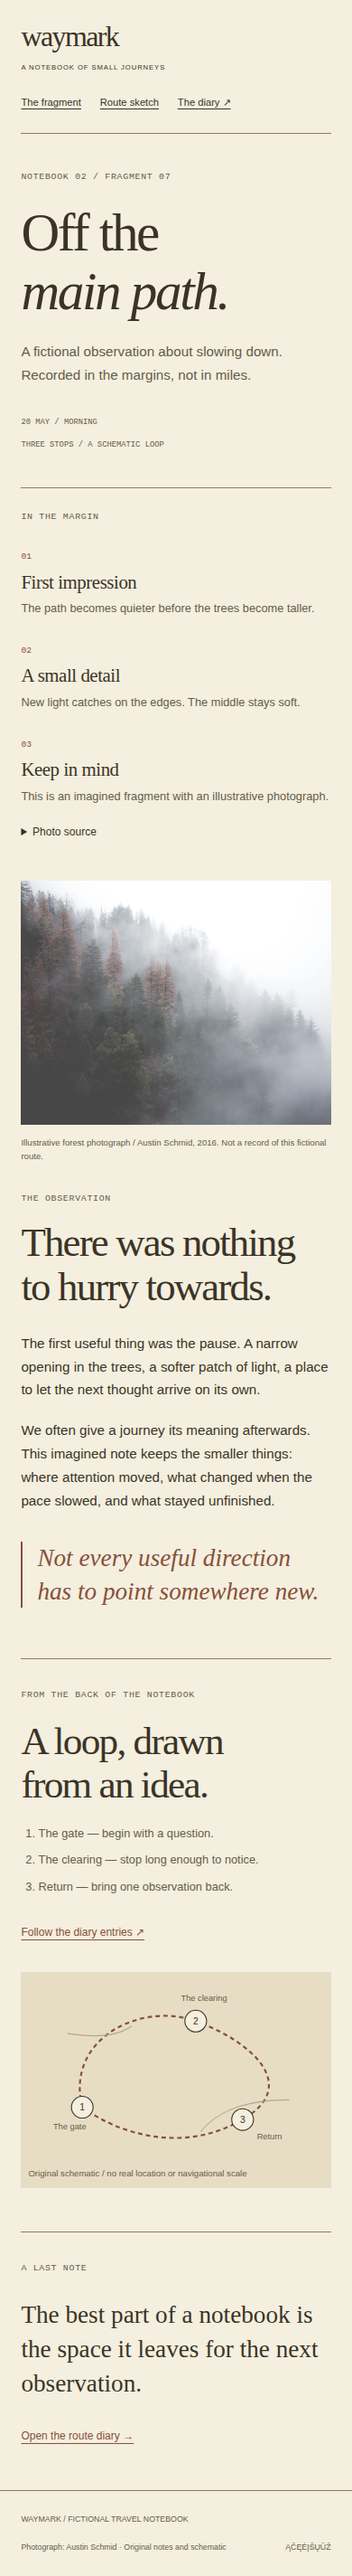
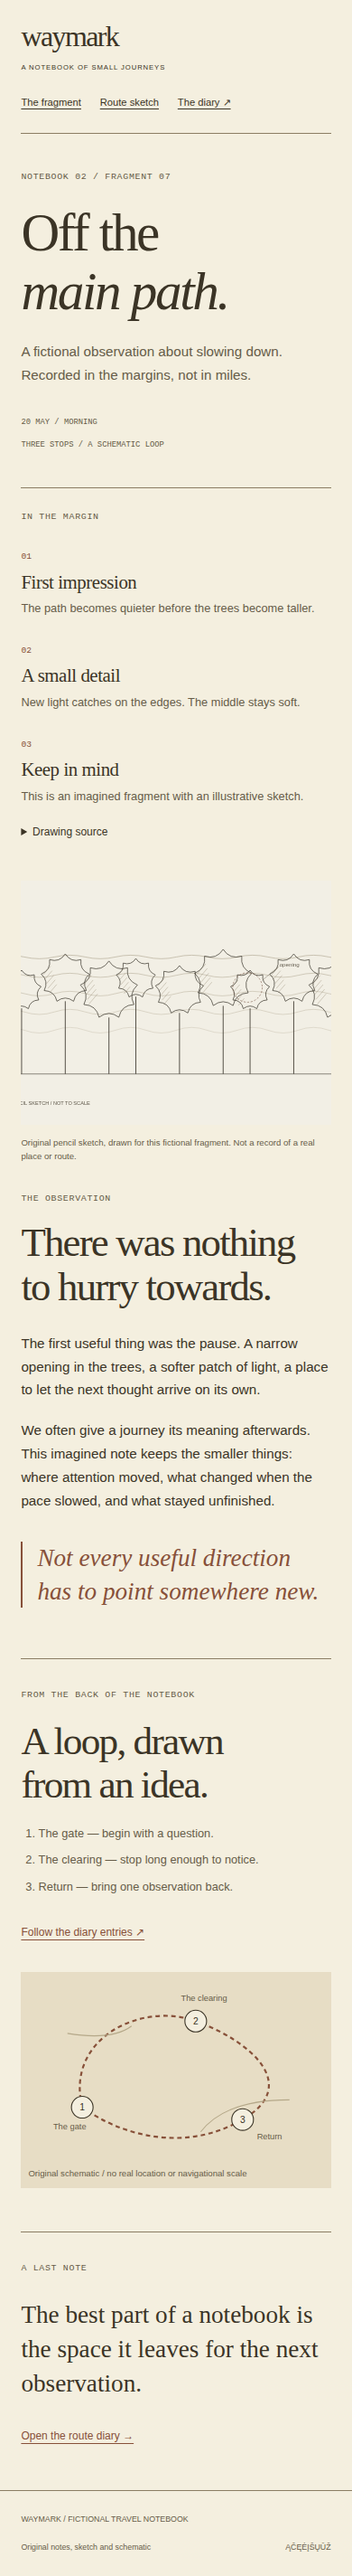
[S51] Pertvarka: Field Notes (#98)
* feat(field-notes): replace the forest photograph with an original sketch

- Remove the stock forest photo that duplicated the Cinematic Photo frame.
- Add an original pencil-style SVG sketch of tree crowns, mist and a marked opening.
- Update captions, rights note, asset registry, style.md and layouts.json to match.

Claude-Session: https://claude.ai/code/session_01UNVqEgRscSKB9PdVUupPsp

* chore: regenerate canonical previews for field-notes

* docs: add S51 evidence for Field Notes redesign

Records canonical previews run 39832260527, the four-PNG rubric review (12/12) and the limits of this review.

Claude-Session: https://claude.ai/code/session_01UNVqEgRscSKB9PdVUupPsp

---------

Changed region(s): [[0.0615, 0.3124, 0.9538, 0.4686]]

diff --git a/styles/field-notes/reference/index.html b/styles/field-notes/reference/index.html
@@ -1,2 +1,2 @@
 <!doctype html>
-<html lang="en"><head><meta charset="utf-8"><meta name="viewport" content="width=device-width,initial-scale=1"><meta name="description" content="Original fictional demonstration for Web Style Atlas."><title>Waymark — Field Notes</title><link rel="stylesheet" href="tokens.css"><link rel="stylesheet" href="style.css"></head><body><a class="skip" href="#main">Skip to content</a><header class="mast"><a class="brand" href="index.html">waymark<span>A NOTEBOOK OF SMALL JOURNEYS</span></a><nav aria-label="Notebook"><a href="index.html#fragment">The fragment</a><a href="index.html#route">Route sketch</a><a href="alternate.html">The diary ↗</a></nav></header><main id="main"><header class="note-title"><p class="field-label">NOTEBOOK 02 / FRAGMENT 07</p><h1>Off the<br><em>main path.</em></h1><p>A fictional observation about slowing down.<br> Recorded in the margins, not in miles.</p><div class="metadata"><span>20 MAY / MORNING</span><span>THREE STOPS / A SCHEMATIC LOOP</span></div></header><div class="annotated"><aside class="margin" aria-label="Margin notes"><p class="field-label">IN THE MARGIN</p><section><span>01</span><h2>First impression</h2><p>The path becomes quieter before the trees become taller.</p></section><section><span>02</span><h2>A small detail</h2><p>New light catches on the edges. The middle stays soft.</p></section><section><span>03</span><h2>Keep in mind</h2><p>This is an imagined fragment with an illustrative photograph.</p></section><details><summary>Photo source</summary><p>Austin Schmid / 2016 / CC0 source declaration.</p><a href="../assets/RIGHTS.txt">Local rights note ↗</a></details></aside><article id="fragment" class="fragment"><figure><img src="../assets/forest.webp" width="1440" height="960" alt="Pale mist moving between layers of dark forest crowns"><figcaption>Illustrative forest photograph / Austin Schmid, 2016. Not a record of this fictional route.</figcaption></figure><p class="field-label">THE OBSERVATION</p><h2>There was nothing<br>to hurry towards.</h2><p>The first useful thing was the pause. A narrow opening in the trees, a softer patch of light, a place to let the next thought arrive on its own.</p><p>We often give a journey its meaning afterwards. This imagined note keeps the smaller things: where attention moved, what changed when the pace slowed, and what stayed unfinished.</p><blockquote>Not every useful direction<br>has to point somewhere new.</blockquote></article></div><section id="route" class="route-section"><div><p class="field-label">FROM THE BACK OF THE NOTEBOOK</p><h2>A loop, drawn<br>from an idea.</h2><ol><li>The gate — begin with a question.</li><li>The clearing — stop long enough to notice.</li><li>Return — bring one observation back.</li></ol><a href="alternate.html">Follow the diary entries ↗</a></div><figure><img src="../assets/route.svg" width="600" height="360" loading="lazy" alt="Fictional three-stop loop: the gate, the clearing and return; a schematic, not a geographic map"><figcaption>Original schematic / no real location or navigational scale</figcaption></figure></section><section class="closing"><p class="field-label">A LAST NOTE</p><p>The best part of a notebook is the space it leaves for the next observation.</p><a href="alternate.html">Open the route diary →</a></section></main><footer><span>WAYMARK / FICTIONAL TRAVEL NOTEBOOK</span><span>Photograph: Austin Schmid · Original notes and schematic</span><span lang="lt">ĄČĘĖĮŠŲŪŽ</span></footer></body></html>
+<html lang="en"><head><meta charset="utf-8"><meta name="viewport" content="width=device-width,initial-scale=1"><meta name="description" content="Original fictional demonstration for Web Style Atlas."><title>Waymark — Field Notes</title><link rel="stylesheet" href="tokens.css"><link rel="stylesheet" href="style.css"></head><body><a class="skip" href="#main">Skip to content</a><header class="mast"><a class="brand" href="index.html">waymark<span>A NOTEBOOK OF SMALL JOURNEYS</span></a><nav aria-label="Notebook"><a href="index.html#fragment">The fragment</a><a href="index.html#route">Route sketch</a><a href="alternate.html">The diary ↗</a></nav></header><main id="main"><header class="note-title"><p class="field-label">NOTEBOOK 02 / FRAGMENT 07</p><h1>Off the<br><em>main path.</em></h1><p>A fictional observation about slowing down.<br> Recorded in the margins, not in miles.</p><div class="metadata"><span>20 MAY / MORNING</span><span>THREE STOPS / A SCHEMATIC LOOP</span></div></header><div class="annotated"><aside class="margin" aria-label="Margin notes"><p class="field-label">IN THE MARGIN</p><section><span>01</span><h2>First impression</h2><p>The path becomes quieter before the trees become taller.</p></section><section><span>02</span><h2>A small detail</h2><p>New light catches on the edges. The middle stays soft.</p></section><section><span>03</span><h2>Keep in mind</h2><p>This is an imagined fragment with an illustrative sketch.</p></section><details><summary>Drawing source</summary><p>Original sketch made for this demonstration. No third-party photograph is used on this page.</p><a href="../assets/RIGHTS.txt">Local rights note ↗</a></details></aside><article id="fragment" class="fragment"><figure><img src="../assets/fragment.svg" width="1440" height="960" alt="Pencil sketch of layered tree crowns with pale mist lines and a dashed circle marking an opening"><figcaption>Original pencil sketch, drawn for this fictional fragment. Not a record of a real place or route.</figcaption></figure><p class="field-label">THE OBSERVATION</p><h2>There was nothing<br>to hurry towards.</h2><p>The first useful thing was the pause. A narrow opening in the trees, a softer patch of light, a place to let the next thought arrive on its own.</p><p>We often give a journey its meaning afterwards. This imagined note keeps the smaller things: where attention moved, what changed when the pace slowed, and what stayed unfinished.</p><blockquote>Not every useful direction<br>has to point somewhere new.</blockquote></article></div><section id="route" class="route-section"><div><p class="field-label">FROM THE BACK OF THE NOTEBOOK</p><h2>A loop, drawn<br>from an idea.</h2><ol><li>The gate — begin with a question.</li><li>The clearing — stop long enough to notice.</li><li>Return — bring one observation back.</li></ol><a href="alternate.html">Follow the diary entries ↗</a></div><figure><img src="../assets/route.svg" width="600" height="360" loading="lazy" alt="Fictional three-stop loop: the gate, the clearing and return; a schematic, not a geographic map"><figcaption>Original schematic / no real location or navigational scale</figcaption></figure></section><section class="closing"><p class="field-label">A LAST NOTE</p><p>The best part of a notebook is the space it leaves for the next observation.</p><a href="alternate.html">Open the route diary →</a></section></main><footer><span>WAYMARK / FICTIONAL TRAVEL NOTEBOOK</span><span>Original notes, sketch and schematic</span><span lang="lt">ĄČĘĖĮŠŲŪŽ</span></footer></body></html>

diff --git a/styles/field-notes/reference/alternate.html b/styles/field-notes/reference/alternate.html
@@ -1,2 +1,2 @@
 <!doctype html>
-<html lang="en"><head><meta charset="utf-8"><meta name="viewport" content="width=device-width,initial-scale=1"><meta name="description" content="Original fictional demonstration for Web Style Atlas."><title>Three stops, one morning — Waymark</title><link rel="stylesheet" href="tokens.css"><link rel="stylesheet" href="style.css"></head><body><a class="skip" href="#main">Skip to content</a><header class="mast"><a class="brand" href="index.html">waymark<span>A NOTEBOOK OF SMALL JOURNEYS</span></a><nav aria-label="Notebook"><a href="index.html#fragment">The fragment</a><a href="index.html#route">Route sketch</a><a href="alternate.html">The diary ↗</a></nav></header><main id="main"><header class="diary-title"><p class="field-label">NOTEBOOK 02 / ROUTE DIARY</p><h1>Three stops.<br><em>One morning.</em></h1><p>A fictional sequence of observations, 20 May.<br>The sketch and photograph are illustrative.</p><nav aria-label="Stop index"><a href="#gate">01 / The gate</a><a href="#clearing">02 / The clearing</a><a href="#return">03 / Return</a></nav></header><div class="diary-layout"><div class="entries"><section id="gate" class="entry"><p class="timestamp">08:10<span>STOP 01</span></p><div><p class="field-label">THE GATE</p><h2>Begin with<br>less of a plan.</h2><p>A notebook, a pencil, and one question: what would we notice if we stopped trying to get somewhere?</p></div></section><section id="clearing" class="entry"><p class="timestamp">09:05<span>STOP 02</span></p><div><p class="field-label">THE CLEARING</p><h2>Stay with<br>the softer edges.</h2><p>In this imagined morning, the middle of the journey is a pause. The photograph below illustrates that feeling; it is not evidence of the route.</p><figure><img src="../assets/forest.webp" width="1440" height="960" alt="Dark treetops fading into bands of pale forest mist"><figcaption>Austin Schmid / illustrative CC0 forest image, 2016</figcaption></figure></div></section><section id="return" class="entry"><p class="timestamp">10:20<span>STOP 03</span></p><div><p class="field-label">RETURN</p><h2>Bring one<br>small thing back.</h2><p>Not a souvenir. An observation: the same path can feel different when it is no longer only a way through.</p></div></section></div><aside class="preparation" aria-label="Route and preparation"><figure><img src="../assets/route.svg" width="600" height="360" alt="Schematic fictional loop with three numbered stops, not a geographic map"><figcaption>ROUTE SKETCH / NOT TO SCALE</figcaption></figure><h2>For the notebook</h2><p>Local checklist. Changes are not saved.</p><label><input type="checkbox"> A notebook</label><label><input type="checkbox"> A pencil</label><label><input type="checkbox"> A question worth keeping</label><details><summary>Sources and context</summary><p>Original fictional writing and route schematic. Photograph by Austin Schmid, CC0 source declaration.</p><a href="../assets/RIGHTS.txt">Read the rights note ↗</a></details></aside></div><section class="diary-end"><p class="field-label">CLOSE THE DAY</p><h2>Leave a little<br>room in the margin.</h2><a href="index.html#fragment">← Return to the annotated fragment</a></section></main><footer><span>WAYMARK / FICTIONAL TRAVEL NOTEBOOK</span><span>Photograph: Austin Schmid · Original notes and schematic</span><span lang="lt">ĄČĘĖĮŠŲŪŽ</span></footer></body></html>
+<html lang="en"><head><meta charset="utf-8"><meta name="viewport" content="width=device-width,initial-scale=1"><meta name="description" content="Original fictional demonstration for Web Style Atlas."><title>Three stops, one morning — Waymark</title><link rel="stylesheet" href="tokens.css"><link rel="stylesheet" href="style.css"></head><body><a class="skip" href="#main">Skip to content</a><header class="mast"><a class="brand" href="index.html">waymark<span>A NOTEBOOK OF SMALL JOURNEYS</span></a><nav aria-label="Notebook"><a href="index.html#fragment">The fragment</a><a href="index.html#route">Route sketch</a><a href="alternate.html">The diary ↗</a></nav></header><main id="main"><header class="diary-title"><p class="field-label">NOTEBOOK 02 / ROUTE DIARY</p><h1>Three stops.<br><em>One morning.</em></h1><p>A fictional sequence of observations, 20 May.<br>The sketch and drawing are illustrative.</p><nav aria-label="Stop index"><a href="#gate">01 / The gate</a><a href="#clearing">02 / The clearing</a><a href="#return">03 / Return</a></nav></header><div class="diary-layout"><div class="entries"><section id="gate" class="entry"><p class="timestamp">08:10<span>STOP 01</span></p><div><p class="field-label">THE GATE</p><h2>Begin with<br>less of a plan.</h2><p>A notebook, a pencil, and one question: what would we notice if we stopped trying to get somewhere?</p></div></section><section id="clearing" class="entry"><p class="timestamp">09:05<span>STOP 02</span></p><div><p class="field-label">THE CLEARING</p><h2>Stay with<br>the softer edges.</h2><p>In this imagined morning, the middle of the journey is a pause. The sketch below illustrates that feeling; it is not evidence of the route.</p><figure><img src="../assets/fragment.svg" width="1440" height="960" alt="Pencil sketch of tree crowns fading into bands of pale mist"><figcaption>Original pencil sketch / illustrative, not evidence of the route</figcaption></figure></div></section><section id="return" class="entry"><p class="timestamp">10:20<span>STOP 03</span></p><div><p class="field-label">RETURN</p><h2>Bring one<br>small thing back.</h2><p>Not a souvenir. An observation: the same path can feel different when it is no longer only a way through.</p></div></section></div><aside class="preparation" aria-label="Route and preparation"><figure><img src="../assets/route.svg" width="600" height="360" alt="Schematic fictional loop with three numbered stops, not a geographic map"><figcaption>ROUTE SKETCH / NOT TO SCALE</figcaption></figure><h2>For the notebook</h2><p>Local checklist. Changes are not saved.</p><label><input type="checkbox"> A notebook</label><label><input type="checkbox"> A pencil</label><label><input type="checkbox"> A question worth keeping</label><details><summary>Sources and context</summary><p>Original fictional writing, sketch and route schematic. No third-party photograph is used.</p><a href="../assets/RIGHTS.txt">Read the rights note ↗</a></details></aside></div><section class="diary-end"><p class="field-label">CLOSE THE DAY</p><h2>Leave a little<br>room in the margin.</h2><a href="index.html#fragment">← Return to the annotated fragment</a></section></main><footer><span>WAYMARK / FICTIONAL TRAVEL NOTEBOOK</span><span>Original notes, sketch and schematic</span><span lang="lt">ĄČĘĖĮŠŲŪŽ</span></footer></body></html>

diff --git a/styles/field-notes/style.md b/styles/field-notes/style.md
@@ -2,7 +2,7 @@
 schema_version: 1
 id: "field-notes"
 name: "Field Notes"
-summary: "Documentary labels, marginal annotations and attached photo captions for a readable travel notebook."
+summary: "Documentary labels, marginal annotations and attached source captions for a readable travel notebook."
 family: "tactile"
 tags: ["annotated", "reading-led", "warm"]
 best_for: ["travel", "publishing", "personal"]
@@ -11,7 +11,7 @@ density: "balanced"
 image_dependency: "medium"
 motion_level: "subtle"
 complexity: "low"
-signature: {"composition": "Narrative fragment beside marginal annotations in A; chronological diary and preparation rail in B.", "typography": "Serif narrative headings, clear sans-serif copy and short monospace documentary labels.", "navigation": "Visible fragment/route links and a three-stop diary index.", "content_rhythm": "Photograph, observation, marginal cross-reference and schematic route; or timed entries.", "imagery": "Rights-documented local forest photo and an original clearly schematic three-stop SVG.", "color_and_material": "Warm paper, sand notes, dark brown and restrained rust annotation marks.", "interaction": "Native source disclosures, local stop links and real local preparation checkboxes.", "motion": "Static notebook; brief link transitions removed for reduced motion."}
+signature: {"composition": "Narrative fragment beside marginal annotations in A; chronological diary and preparation rail in B.", "typography": "Serif narrative headings, clear sans-serif copy and short monospace documentary labels.", "navigation": "Visible fragment/route links and a three-stop diary index.", "content_rhythm": "Sketch, observation, marginal cross-reference and schematic route; or timed entries.", "imagery": "An original pencil-style sketch and an original clearly schematic three-stop SVG.", "color_and_material": "Warm paper, sand notes, dark brown and restrained rust annotation marks.", "interaction": "Native source disclosures, local stop links and real local preparation checkboxes.", "motion": "Static notebook; brief link transitions removed for reduced motion."}
 status: "ready"
 ---
 
@@ -19,11 +19,11 @@ status: "ready"
 
 ## Intent
 
-Field Notes presents a journey as a record of observations rather than a destination advertisement. The fictional Waymark notebook combines a short travel fragment, marginal annotations and a route diary. It suits personal journals, travel writing and small documentary projects. Readers should understand what was noticed, when it was recorded and which parts are illustrative. The references use a real licensed forest photograph beside explicitly fictional notes and a schematic route, without implying the image documents that invented journey.
+Field Notes presents a journey as a record of observations rather than a destination advertisement. The fictional Waymark notebook combines a short travel fragment, marginal annotations and a route diary. It suits personal journals, travel writing and small documentary projects. Readers should understand what was noticed, when it was recorded and which parts are illustrative. The references use an original sketch beside explicitly fictional notes and a schematic route, without implying the drawing documents that invented journey.
 
 ## Signature
 
-Keep four invariants: a paper-like reading ground; compact documentary labels; a visible relationship between main writing and marginal notes; and photographs or diagrams with attached source captions. A presents one annotated travel fragment. B rearranges the same visual vocabulary into a chronological route diary with a supporting preparation rail. Texture is restrained and never required to read the page. The notebook identity comes from documenting and cross-referencing information, not from covering every surface in distressed paper.
+Keep four invariants: a paper-like reading ground; compact documentary labels; a visible relationship between main writing and marginal notes; and sketches or diagrams with attached source captions. A presents one annotated travel fragment. B rearranges the same visual vocabulary into a chronological route diary with a supporting preparation rail. Texture is restrained and never required to read the page. The notebook identity comes from documenting and cross-referencing information, not from covering every surface in distressed paper.
 
 ## Typography
 
@@ -31,19 +31,19 @@ Use Georgia for the journal title and narrative headings, Arial for body informa
 
 ## Color and surfaces
 
-Warm cream carries the main reading surface, a pale sand panel marks notes, dark brown text carries the narrative and a muted rust accent connects cross-references. Thin rules suggest a notebook’s organization without enclosing every paragraph. Interface colors use semantic generated tokens, including focus and diagram-stage surfaces. The photograph retains its original natural palette. Annotations can feel lightly attached through offset position or a small rule; dense noise and torn-edge effects should not interfere with text.
+Warm cream carries the main reading surface, a pale sand panel marks notes, dark brown text carries the narrative and a muted rust accent connects cross-references. Thin rules suggest a notebook’s organization without enclosing every paragraph. Interface colors use semantic generated tokens, including focus and diagram-stage surfaces. The sketch keeps to ink, sand and rust on the paper ground. Annotations can feel lightly attached through offset position or a small rule; dense noise and torn-edge effects should not interfere with text.
 
 ## Layout A
 
-Begin with a small notebook identity and local fragment/route links. A title and field metadata introduce one observation. The main column holds a framed forest photograph, its truthful source caption and a short narrative fragment. A narrower margin contains weather-like fictional context, numbered observations and a native source disclosure. A later route sketch pairs three stops with a clear diagram caption, then a closing note links to the separate diary. The reading and margin relationship is the central composition.
+Begin with a small notebook identity and local fragment/route links. A title and field metadata introduce one observation. The main column holds a framed pencil sketch, its truthful source caption and a short narrative fragment. A narrower margin contains weather-like fictional context, numbered observations and a native source disclosure. A later route sketch pairs three stops with a clear diagram caption, then a closing note links to the separate diary. The reading and margin relationship is the central composition.
 
 ## Layout B
 
-A compact diary title leads to a route summary and three chronological entries. Each entry has a time label, a short observation and its own heading. The middle entry contains the forest photograph with a caption explaining its illustrative role. A preparation rail holds the route diagram and three real native checklist controls. A native source note and return link close the diary. This page supports following a sequence and checking local preparation items, instead of reading A’s single annotated fragment.
+A compact diary title leads to a route summary and three chronological entries. Each entry has a time label, a short observation and its own heading. The middle entry contains the sketch with a caption explaining its illustrative role. A preparation rail holds the route diagram and three real native checklist controls. A native source note and return link close the diary. This page supports following a sequence and checking local preparation items, instead of reading A’s single annotated fragment.
 
 ## Imagery
 
-The local forest photograph is credited to Austin Schmid and retains the source’s pre-2017 CC0 declaration and rights note already documented in the atlas. It is an illustrative image, not proof of the fictional route. A new original SVG draws a schematic three-stop loop, with labels and an explicit non-geographic caption. Both assets have registry records. For a real travel adaptation, use accurate captions, licensed photographs and verified location data; never attach guessed coordinates to a generic landscape.
+The sketch is original, drawn for this demonstration and recorded in the local registry and rights note. It is an illustrative image, not proof of the fictional route. A second original SVG draws a schematic three-stop loop, with labels and an explicit non-geographic caption. Both assets have registry records. For a real travel adaptation, use accurate captions, licensed photographs and verified location data; never attach guessed coordinates to a generic landscape.
 
 ## Navigation and interaction
 
@@ -51,11 +51,11 @@ Visible text links reach the fragment, route sketch and separate diary. B’s lo
 
 ## Motion
 
-The notebook is static and readable immediately. Brief link-color transitions are optional and removed for reduced-motion preferences. No page-turn animation, drifting paper or mandatory map animation is necessary. If a future route diagram animates progress, keep the full route and all observations available as a static equivalent. Avoid scroll-jacking that forces readers to follow a predetermined reading pace. Photographs, captions and notes must remain stable while a reader moves between the main column and margin.
+The notebook is static and readable immediately. Brief link-color transitions are optional and removed for reduced-motion preferences. No page-turn animation, drifting paper or mandatory map animation is necessary. If a future route diagram animates progress, keep the full route and all observations available as a static equivalent. Avoid scroll-jacking that forces readers to follow a predetermined reading pace. Sketches, captions and notes must remain stable while a reader moves between the main column and margin.
 
 ## Responsive behavior
 
-At 1440 pixels A places a narrow note rail beside the wider narrative column. B gives the chronological diary most of the width and keeps preparation information alongside it. At tablet widths reduce margins and rail width while preserving a comfortable reading measure. At 360 pixels move annotations below the relevant introduction, stack diary times above their entries and keep every photograph with its caption. The route diagram scales within its frame and never becomes a horizontally scrolling pseudo-map.
+At 1440 pixels A places a narrow note rail beside the wider narrative column. B gives the chronological diary most of the width and keeps preparation information alongside it. At tablet widths reduce margins and rail width while preserving a comfortable reading measure. At 360 pixels move annotations below the relevant introduction, stack diary times above their entries and keep every sketch with its caption. The route diagram scales within its frame and never becomes a horizontally scrolling pseudo-map.
 
 ## Accessibility
 
@@ -63,12 +63,12 @@ The references target one page heading, clear main and complementary landmarks, 
 
 ## Adaptation
 
-Replace the fictional notes with truthful observations and label estimates or memories as such. Keep a source caption beside each photograph and use verified route information when describing a real journey. Preserve the narrative-to-margin relationship in A or the timestamp-to-entry sequence in B when implementing in WordPress, React or another platform. Choose a small number of useful annotations rather than inventing decorative metadata. A route sketch can remain schematic if its purpose and limitations are clear to readers.
+Replace the fictional notes with truthful observations and label estimates or memories as such. Keep a source caption beside each image and use verified route information when describing a real journey. Preserve the narrative-to-margin relationship in A or the timestamp-to-entry sequence in B when implementing in WordPress, React or another platform. Choose a small number of useful annotations rather than inventing decorative metadata. A route sketch can remain schematic if its purpose and limitations are clear to readers.
 
 ## Avoid
 
-1. Do not turn the notebook into a uniform product-card grid; documentation and cross-reference relationships should remain visible. 2. Do not imply a real route, location or travel record through an unrelated photograph and invented coordinates. 3. Do not bury notes in dense distressed textures, tiny handwriting or hover-only annotations.
+1. Do not turn the notebook into a uniform product-card grid; documentation and cross-reference relationships should remain visible. 2. Do not imply a real route, location or travel record through an unrelated image and invented coordinates. 3. Do not bury notes in dense distressed textures, tiny handwriting or hover-only annotations.
 
 ## Closest styles
 
-Organic Craft and Botanical Engraving are the nearest ready comparisons. Field Notes uses a narrative column with an annotation rail, a real illustrative photograph, a schematic route and timed stops. Organic Craft uses uneven product stages and making/collection links, alternating material and object observations rather than dated notebook entries. Botanical Engraving gives plant plates, accepted names and specimen records a classified index instead of a route diary. Editorial Journal is another comparison: its literary masthead and sustained essay differ from documentary labels and marginal observations. P13 compares the full A/B desktop/mobile compositions beyond their common warm paper and serif voice.
+Organic Craft and Botanical Engraving are the nearest ready comparisons. Field Notes uses a narrative column with an annotation rail, an original illustrative sketch, a schematic route and timed stops. Organic Craft uses uneven product stages and making/collection links, alternating material and object observations rather than dated notebook entries. Botanical Engraving gives plant plates, accepted names and specimen records a classified index instead of a route diary. Editorial Journal is another comparison: its literary masthead and sustained essay differ from documentary labels and marginal observations. P13 compares the full A/B desktop/mobile compositions beyond their common warm paper and serif voice.

diff --git a/docs/evidence/S51.md b/docs/evidence/S51.md
@@ -1,0 +1,71 @@
+# S51 — įrodymai: Field Notes (pertvarka)
+
+Autorius: Claude Haiku 5.5 / session-S51. Šaka `task/s51-field-notes`. Peržiūrėtas galutinis kanoninių PNG commit'as `b6f54cb` (po `41413c7`).
+
+## Kas pakeista
+
+- Miško fotografija pašalinta iš šio stiliaus (`assets/forest.webp` ištrintas). Ji sutapo su Cinematic Photo (Afterlight) kadru, todėl hero'as nebebuvo šio stiliaus kryptis.
+- Vietoj jos pridėtas originalus pieštukinis eskizas `assets/fragment.svg`: keli medžių vainikai, miglos juostos ir punktyrinis apskritimas su žyma „opening“. Eskizas sukurtas šiam stiliui, be trečiųjų šalių vaizdų ar šriftų.
+- Visi tekstai, kurie minėjo fotografiją (`reference/index.html`, `reference/alternate.html`), perrašyti į eskizą: paraštės šaltinio skyrius „Drawing source“, paveikslėlio antraštės, poraštė ir šaltinių skyrius.
+- `assets/RIGHTS.txt` ir `assets.json` atnaujinti: eskizas įrašytas kaip originalas (MIT), forest įrašas pašalintas.
+- `style.md` ir `layouts.json` atnaujinti pagal eskizą: „sketch“ vietoj „photo“, paraštės struktūra ir maršruto schema išlieka pagrindiniu išskirtinumu.
+- `style.md` kūno apimtis 1116 žodžiai (ribose 700–1200).
+- B variantas (`alternate.html`) dabar naudoja tą patį eskizą, bet jo stilius ne fotografinis, todėl nepasikartoja su kitais fotografiniais stiliais.
+
+## Komandos ir rezultatai
+
+| Komanda | Rezultatas |
+|---|---|
+| `npm run validate` | Nepaleista lokaliai (vartotojo nurodymas); patikra per kanoninį workflow ir GitHub CI |
+| `npm run build -- --style field-notes` | Nepaleista lokaliai; patikra per kanoninį workflow ir GitHub CI |
+| `node --test tests/*.test.mjs` | Nepaleista lokaliai; patikra per GitHub CI |
+| Kanoninis workflow `previews.yml` (ref `main`, branch `task/s51-field-notes`, style `field-notes`), run `39832260527` | success; bot'as pateikė commit'ą `b6f54cb` su keturiais PNG ir `catalog/previews-manifest.json` atnaujinimu. Tame pačiame žingsnyje vykdomas `npm run check -- --style "$STYLE"` |
+| `npm run test:browser -- --style field-notes` | Nepaleista lokaliai; naršyklės vartai – GitHub CI |
+
+## Keturių kanoninių PNG peržiūra
+
+Peržiūrėta `preview.png`, `preview-mobile.png`, `preview-alt.png`, `preview-alt-mobile.png` iš commit'o `b6f54cb`.
+
+- A desktop: paraštės kairėje su trim anotacijomis ir šaltinio skyriumi; eskizas pagrindinėje kolonoje su žyma „opening“; maršruto schema ir uždaromoji pastaba. Paraštės ir pagrindinio teksto santykis išlieka.
+- A mobile: paraštė virš pagrindo, eskizas ir jo antraštė po pagrindiniu paveikslėliu, maršruto schema ir žymos skaitomos; be horizontalaus slinkimo.
+- B desktop: trys datuoti įrašai su eskizu viduriniame įraše, pagalbinė šoninė kolonėlė su maršrutu ir kontrolinio sąrašo langeliais; viskas aiškiai susieta.
+- B mobile: įrašai eina vertikaliai, eskizas su antrašte, kontrolinis sąrašas ir šaltiniai telefone skaitomi.
+
+## Rubrika (`core/quality-rubric.md`)
+
+Artimiausias kaimynas pagal katalogą: `botanical-engraving`. Šios sesijos metu jo PNG šalia nebuvo atidarytas, todėl palyginimas paremtas šios peržiūros vaizdais ir katalogo aprašymu – tai nurodyta apribojimuose.
+
+| Kriterijus | Balas | Priežastis |
+|---|---|---|
+| Atpažinimas | 2 | Krema popierius, mažos dokumentinės žymos, paraštės anotacijos, punktyrinė maršruto schema – visi matomi A ir B. |
+| Skirtumas nuo kaimyno | 2 | Botanical-engraving – augalų lentelės ir klasifikuotas indeksas. Čia – datuoti įrašai, paraštės anotacijos ir maršruto dienoraštis, o eskizas yra vaizdo kontekstas, ne augalo lentelė. Lyginta pagal šią peržiūrą ir katalogo aprašymą. |
+| A/B skirtumas | 2 | A – vienas fragmentas su paraštės stulpeliu; B – trijų įrašų dienoraštis su kontroliniu sąrašu. Skirtinga kompozicija ir turinio užduotis. |
+| Hierarchija | 2 | Antraštė, datos, paraštės numeriai, eskizo antraštė ir šaltinio skyrius turi aiškius vaidmenis. |
+| Mobile | 2 | A ir B reflow sąmoningai; eskizas lieka su antrašte; be horizontalaus slinkimo peržiūroje. |
+| Adaptability | 2 | `style.md` nurodo, kaip pakeisti eskizą tikru leistinu vaizdu, kaip išlaikyti šaltinio antraštę ir maršruto ribas. |
+
+**Iš viso 12/12**, be nulio; atpažinimas ir skirtumas nuo kaimyno – 2.
+
+Vertinimą atliko šios užduoties vykdytojas, ne nepriklausomas peržiūrėtojas.
+
+## Invariantai (3–5)
+
+1. Kiekvienas paveikslėlis turi šaltinio antraštę, kuri aiškiai sako, kad tai nėra realios vietos įrodymas.
+2. Paraštės anotacijos išlieka šalia pagrindinio teksto, o ne išbarstytos po puslapį.
+3. Maršruto schema yra schematinė ir nerodo realios geografijos.
+4. Nėra trečiųjų šalių fotografijų šiame stiliuje; visi vaizdai originalūs ir įrašyti registre.
+
+## Anti-pattern'ai (tiksliai 3)
+
+1. Stock miško fotografija kaip hero kadras.
+2. Dviejų stilių bendras hero kadras.
+3. Vaizdas, kuris teigia realią vietą be šaltinio ar be koordinatės pagrindo.
+
+## Apribojimai
+
+- Lokalūs `validate`, `build` ir `test` nepaleisti; patikra – kanoniniame workflow `39832260527` ir GitHub CI.
+- `npm run check` ir `npm run test:browser` lokaliai nepaleisti.
+- Eskizo medžių vainikai stilizuoti ir paprastesni nei buvusi fotografija; tai sąmoningas kompromisas dėl teisių ir kryptingumo.
+- Neapžiūrėtas botanical-engraving PNG šioje sesijoje; palyginimas paremtas katalogo aprašymu.
+- Maršrutas ir įrašai iliustraciniai; tai nurodyta puslapyje.
+- Automatiniai patikrinimai nėra pilnas WCAG patikrinimas.

diff --git a/catalog/index.md b/catalog/index.md
@@ -17,7 +17,7 @@ Ready styles: 39. Drafts and templates are excluded.
 | [Data Observatory](../styles/data-observatory/style.md) | technical | Explicit units, synchronized metrics and accurate quantitative marks with a searchable comparison table. | [A: Metrics and paired-dot chart overview](../styles/data-observatory/reference/index.html) · [B: Filtered comparison table](../styles/data-observatory/reference/alternate.html) |
 | [Discovery Cabinet](../styles/discovery-cabinet/style.md) | illustrative | Six individually opening illustrated jars connect a radial table and a vertical drawer to a local collection tray and real discovery-sheet export. | [A: Radial six-jar discovery table](../styles/discovery-cabinet/reference/index.html) · [B: Vertical drawer and personal collection workbench](../styles/discovery-cabinet/reference/alternate.html) |
 | [Editorial Journal](../styles/editorial-journal/style.md) | editorial | A literary issue cover and long-form essay, with serif reading rhythm, margin notes and quiet paper surfaces. | [A: Cover story and departments](../styles/editorial-journal/reference/index.html) · [B: Essay with margin notes](../styles/editorial-journal/reference/alternate.html) |
-| [Field Notes](../styles/field-notes/style.md) | tactile | Documentary labels, marginal annotations and attached photo captions for a readable travel notebook. | [A: Travel fragment with margin notes](../styles/field-notes/reference/index.html) · [B: Route diary and photographs](../styles/field-notes/reference/alternate.html) |
+| [Field Notes](../styles/field-notes/style.md) | tactile | Documentary labels, marginal annotations and attached source captions for a readable travel notebook. | [A: Travel fragment with margin notes](../styles/field-notes/reference/index.html) · [B: Route diary and sketches](../styles/field-notes/reference/alternate.html) |
 | [Gallery White Cube](../styles/gallery-white-cube/style.md) | restrained | Artwork-first exhibition walls and concentrated single-work views, with captions behaving like quiet museum labels. | [A: Exhibition works wall](../styles/gallery-white-cube/reference/index.html) · [B: Single work with exhibition index](../styles/gallery-white-cube/reference/alternate.html) |
 | [Humanist Service](../styles/humanist-service/style.md) | functional | Warm serif guidance, approachable illustrated people and a clear three-step path make practical service help feel patient and understandable. | [A: People and practical help](../styles/humanist-service/reference/index.html) · [B: A patient three-step path](../styles/humanist-service/reference/alternate.html) |
 | [Industrial Spec](../styles/industrial-spec/style.md) | technical | Numbered engineering-sheet compositions with dimensioned elevations, explicit units and revision records, plus an orthographic comparison layout. | [A: Dimensioned component sheet](../styles/industrial-spec/reference/index.html) · [B: Orthographic views and comparison](../styles/industrial-spec/reference/alternate.html) |
